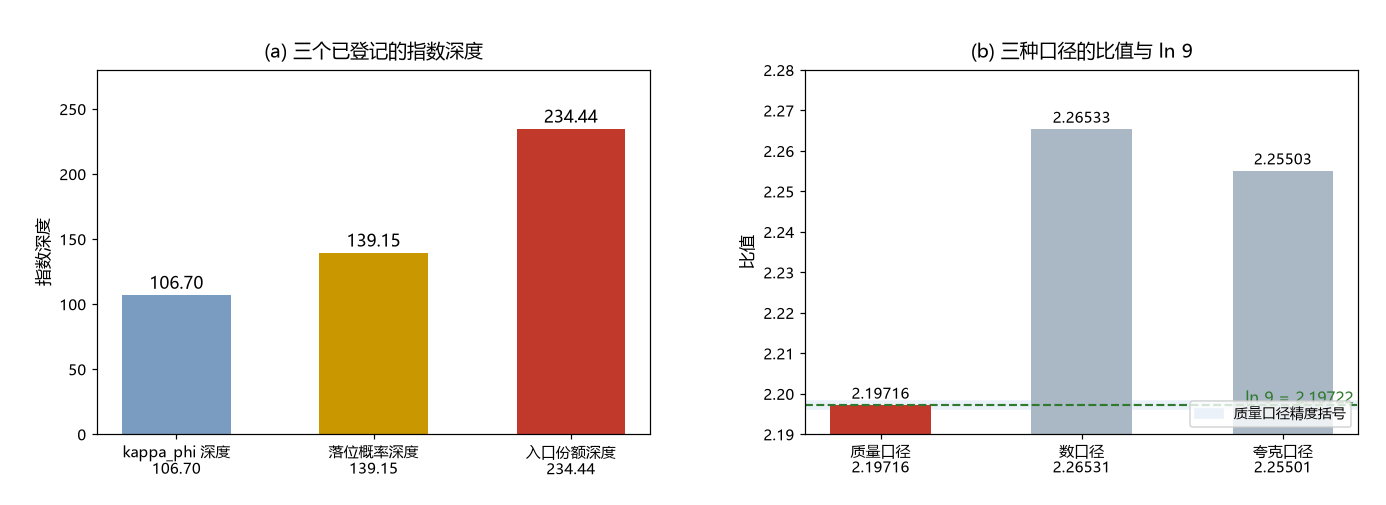
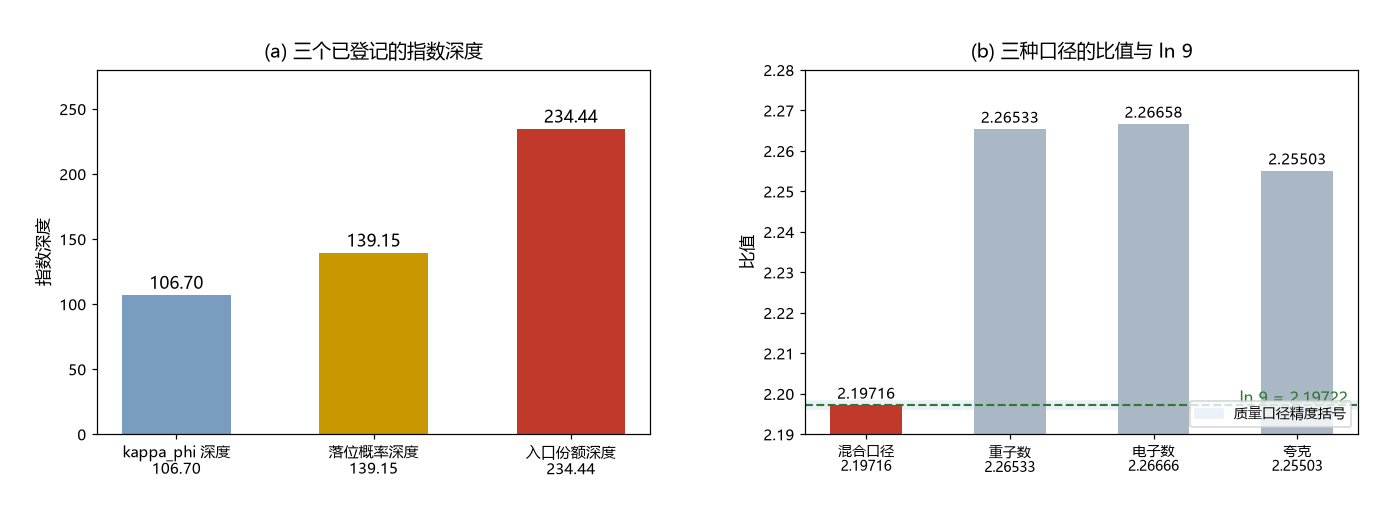
第 366 条 §7 升级为四口径：补电子数口径（n_e=0.875n_b，深度 241.85，比值 2.26666）；写明现行值为混合口径并隐含每重子 1442 个缺陷

Changed region(s): [[0.6515, 0.2079, 0.9928, 0.9505], [0.5895, 0.8614, 0.6515, 0.9505], [0.5895, 0.7426, 0.6515, 0.802]]

diff --git a/验证脚本/minimal_verification_depth_ratio_ln9.py b/验证脚本/minimal_verification_depth_ratio_ln9.py
@@ -53,12 +53,15 @@ print()
 
 print("== 口径敏感性 ==")
 depth_num = math.log(1.0 / (n_b * l_P ** 3))
+n_e = 0.875 * n_b
+depth_e = math.log(1.0 / (n_e * l_P ** 3))
 depth_quark = depth_num - math.log(3.0)
 depth_mass = ln_f
-for name, d in (("质量口径（现行）", depth_mass), ("数口径（每重子一缺陷）", depth_num), ("夸克口径（每重子三缺陷）", depth_quark)):
-    print("  %-22s 深度 = %8.3f ; 比值 = %.5f" % (name, d, d / ln_S))
-print("  ln 9 = %.5f ; 质量口径精度括号 = [%.4f, %.4f]" % (math.log(9.0), ln_f / 106.75, ln_f / 106.65))
-print("  质量等式隐含计数：每重子 %.0f 个缺陷（= m_p/M）" % (m_p_MeV / M_MeV))
+for name, d in (("混合口径（现行）", depth_mass), ("重子数口径", depth_num), ("电子数口径", depth_e), ("夸克口径", depth_quark)):
+    print("  %-14s 深度 = %8.3f ; 比值 = %.5f" % (name, d, d / ln_S))
+print("  ln 9 = %.5f ; 混合口径精度括号 = [%.4f, %.4f]" % (math.log(9.0), ln_f / 106.75, ln_f / 106.65))
+print("  电子数密度 n_e = %.5f m^-3（= 0.875 n_b）" % n_e)
+print("  混合口径隐含计数：每重子 %.0f 个缺陷（= m_p/M）" % (m_p_MeV / M_MeV))
 print()
 print("== 其他深度对（纪律核对）==")
 for a, b, na, nb in ((139.15, 106.70, "139.15", "106.70"), (234.4375, 139.15, "234.44", "139.15")):
@@ -86,14 +89,14 @@ ax = axes[1]
 lo, hi = ln_f / 106.75, ln_f / 106.65
 ax.axhspan(lo, hi, color="#eaf1f8", label="质量口径精度括号")
 ax.axhline(math.log(9.0), color="#2f7a2f", ls="--", lw=1.4)
-labels3 = ["质量口径\n2.19716", "数口径\n2.26531", "夸克口径\n2.25501"]
-vals3 = [depth_mass / ln_S, depth_num / ln_S, depth_quark / ln_S]
-ax.bar([0, 1, 2], vals3, color=["#c0392b", "#aab7c4", "#aab7c4"], width=0.5)
-for i, v in enumerate(vals3):
-    ax.text(i, v + 0.0016, "%.5f" % v, ha="center", fontsize=10)
-ax.annotate("ln 9 = 2.19722", (2.35, 2.19760), fontsize=10.5, color="#2f7a2f", ha="right")
-ax.set_xticks([0, 1, 2])
-ax.set_xticklabels(labels3, fontsize=9.5)
+labels4 = ["混合口径\n2.19716", "重子数\n2.26533", "电子数\n2.26666", "夸克\n2.25503"]
+vals4 = [depth_mass / ln_S, depth_num / ln_S, depth_e / ln_S, depth_quark / ln_S]
+ax.bar([0, 1, 2, 3], vals4, color=["#c0392b", "#aab7c4", "#aab7c4", "#aab7c4"], width=0.5)
+for i, v in enumerate(vals4):
+    ax.text(i, v + 0.0016, "%.5f" % v, ha="center", fontsize=9.5)
+ax.annotate("ln 9 = 2.19722", (3.35, 2.19760), fontsize=10.5, color="#2f7a2f", ha="right")
+ax.set_xticks([0, 1, 2, 3])
+ax.set_xticklabels(labels4, fontsize=9)
 ax.set_ylim(2.19, 2.28)
 ax.set_ylabel("比值", fontsize=11)
 ax.set_title("(b) 三种口径的比值与 ln 9", fontsize=12.5, pad=8)

diff --git a/验证脚本/README.md b/验证脚本/README.md
@@ -5395,6 +5395,6 @@ ho$（$u^\mu$ 为晶格系四速），并核验静态极限、无阻尼极限、
 
 **验证内容**：核对 $\ln(1/f)/\ln(1/S)$ 与 $\ln 9$ 的关系，给出两深度的输入分解、精度括号与其余深度对的比较。
 
-**判据**：D1 比值 $2.19716$ 对 $\ln 9 = 2.19722$（相对差 $2.9\times10^{-5}$，重构指数口径）；D2 精度括号 $[2.1961,\ 2.1982]$（登记指数四位有效数字），属 $10^{-4}$ 级相容；D3 分解成立（$241.711 - 7.274$；$103.056 + 2.936 + 0.708$）；D4 另外两对深度比不成形（$1.3041$、$1.6848$）；D5 口径敏感性：质量口径 $2.19716$、数口径 $2.26533$、夸克口径 $2.25503$，只有质量口径落在括号内，质量等式隐含每重子约 $1442$ 个缺陷。全过。
+**判据**：D1 比值 $2.19716$ 对 $\ln 9 = 2.19722$（相对差 $2.9\times10^{-5}$，重构指数口径）；D2 精度括号 $[2.1961,\ 2.1982]$（登记指数四位有效数字），属 $10^{-4}$ 级相容；D3 分解成立（$241.711 - 7.274$；$103.056 + 2.936 + 0.708$）；D4 另外两对深度比不成形（$1.3041$、$1.6848$）；D5 口径敏感性：混合口径 $2.19716$、重子数口径 $2.26533$、电子数口径 $2.26666$、夸克口径 $2.25503$，只有混合口径落在括号内；混合口径隐含每重子约 $1442$ 个缺陷。全过。
 
 **结论**：观察成立但精度降级为 $10^{-4}$ 级相容；两侧输入分属宇宙学与粒子扇区，结构解释须待 Kibble 密度计算。材料：[[注记-指数深度比 2.197 的登记观察（第366条）：234.44、106.70 与 ln 9]]、图 `images/depth_ratio_ln9.png`。
